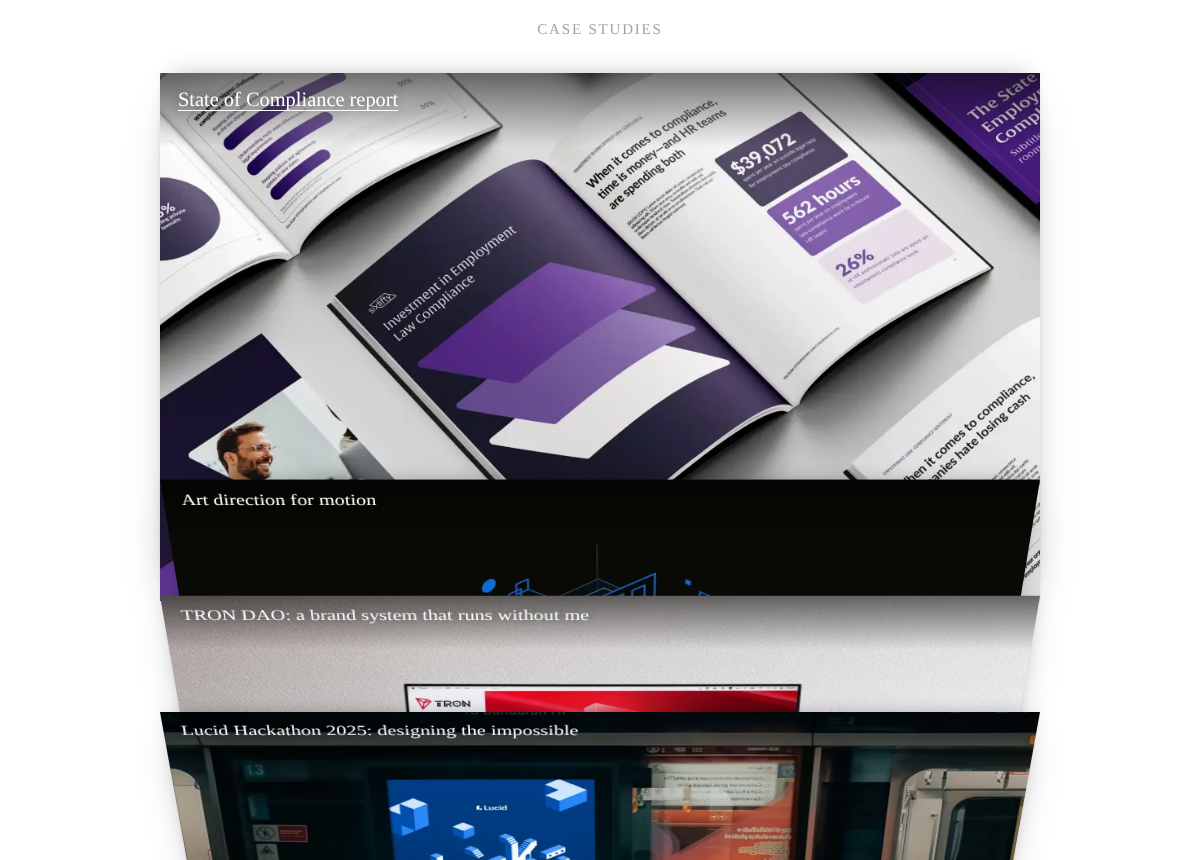
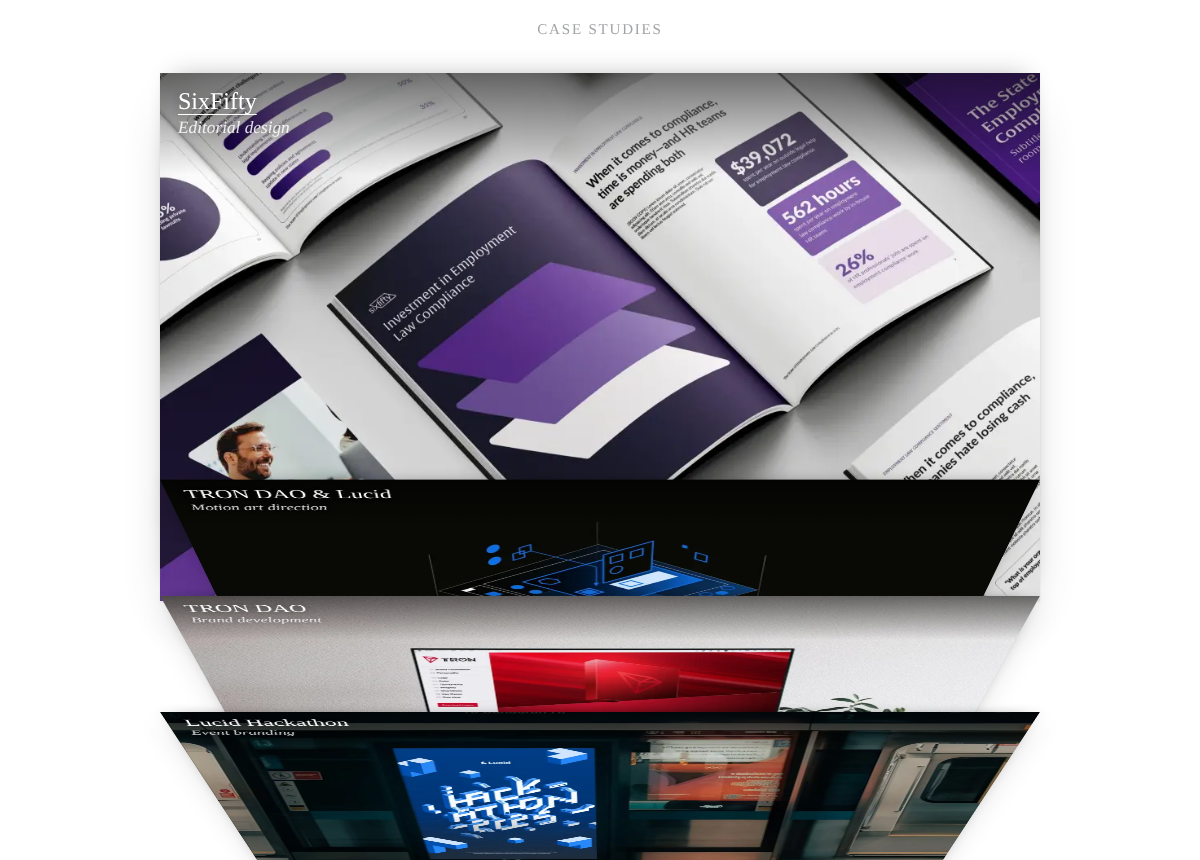
Steeper case study tilt; card titles name the work, then the design area
Claude-Session: https://claude.ai/code/session_012okL6dvzymGUxin7fTu74p

Changed region(s): [[0.1233, 0.5744, 0.8633, 1.0], [0.1233, 0.0907, 0.7708, 0.1814], [0.8325, 0.1512, 0.8633, 0.1814]]

diff --git a/app/globals.css b/app/globals.css
@@ -146,12 +146,12 @@ body {
   --reveal: calc(var(--h) * 0.55);
   --count: 4;
   /* Negative tips the tops toward the viewer, so the cards come forward. */
-  --tilt: -26deg;
+  --tilt: -40deg;
   position: relative;
   width: var(--w);
   height: calc(var(--h) + (var(--count) - 1) * var(--step) + var(--reveal));
   margin: 0 auto;
-  perspective: 1500px;
+  perspective: 1100px;
   perspective-origin: 50% 0;
 }
 
@@ -195,13 +195,25 @@ body {
   inset: 0 0 auto;
   padding: 14px 18px 36px;
   background: linear-gradient(rgb(0 0 0 / 0.55), transparent);
-  font-size: clamp(16px, 1.7vw, 21px);
+  font-size: clamp(18px, 2vw, 26px);
   line-height: 1.2;
   color: #fff;
   text-shadow: 0 1px 8px rgb(0 0 0 / 0.3);
 }
 
-.case-stack-card[data-upright] .case-stack-title {
+.case-stack-name,
+.case-stack-area {
+  display: block;
+}
+
+.case-stack-area {
+  margin-top: 2px;
+  font-size: 0.72em;
+  font-style: italic;
+  opacity: 0.85;
+}
+
+.case-stack-card[data-upright] .case-stack-name {
   text-decoration: underline;
   text-decoration-thickness: 1px;
   text-underline-offset: 0.2em;

diff --git a/lib/work.ts b/lib/work.ts
@@ -9,10 +9,10 @@ import type { MDXContent } from "mdx/types";
  * `{ slug: "email", label: "EMAIL" }` between MOTION and EDITORIAL.
  */
 export const CASE_STUDIES = [
-  { slug: "hackathon", label: "EVENT BRANDING" },
-  { slug: "tron", label: "BRAND GUIDES" },
-  { slug: "motion", label: "MOTION" },
-  { slug: "editorial", label: "EDITORIAL" },
+  { slug: "hackathon", label: "EVENT BRANDING", name: "Lucid Hackathon", area: "Event branding" },
+  { slug: "tron", label: "BRAND GUIDES", name: "TRON DAO", area: "Brand development" },
+  { slug: "motion", label: "MOTION", name: "TRON DAO & Lucid", area: "Motion art direction" },
+  { slug: "editorial", label: "EDITORIAL", name: "SixFifty", area: "Editorial design" },
 ] as const;
 
 export type CaseStudySlug = (typeof CASE_STUDIES)[number]["slug"];

diff --git a/app/page.tsx b/app/page.tsx
@@ -18,7 +18,7 @@ export default async function Home() {
   // The case studies lead; the carousel has them first, then the blog, newest first.
   const cases: ShowcaseItem[] = (
     await Promise.all(
-      CASE_STUDIES.map(async ({ slug, label }): Promise<ShowcaseItem | undefined> => {
+      CASE_STUDIES.map(async ({ slug, label, name, area }): Promise<ShowcaseItem | undefined> => {
         const { meta } = await loadCaseStudy(slug);
         const image = meta.hero?.kind === "video" ? meta.hero.poster : meta.hero?.src;
         if (!image) return undefined;
@@ -29,6 +29,8 @@ export default async function Home() {
           image,
           alt: meta.hero?.alt ?? "",
           summary: meta.summary,
+          name,
+          area,
         };
       }),
     )

diff --git a/components/CaseStack.tsx b/components/CaseStack.tsx
@@ -98,7 +98,10 @@ export function CaseStack({
               priority={i === n - 1}
               draggable={false}
             />
-            <span className="case-stack-title">{item.title}</span>
+            <span className="case-stack-title">
+              <span className="case-stack-name">{item.name ?? item.title}</span>
+              {item.area && <span className="case-stack-area">{item.area}</span>}
+            </span>
           </Link>
         </li>
       ))}

diff --git a/components/Showcase.tsx b/components/Showcase.tsx
@@ -13,6 +13,9 @@ export type ShowcaseItem = {
   alt: string;
   /** One line about it, where there is one (case studies). */
   summary?: string;
+  /** Short card label for the case study crate: what it is, then the design area. */
+  name?: string;
+  area?: string;
 };
 
 const REDUCED_MOTION = "(prefers-reduced-motion: reduce)";
